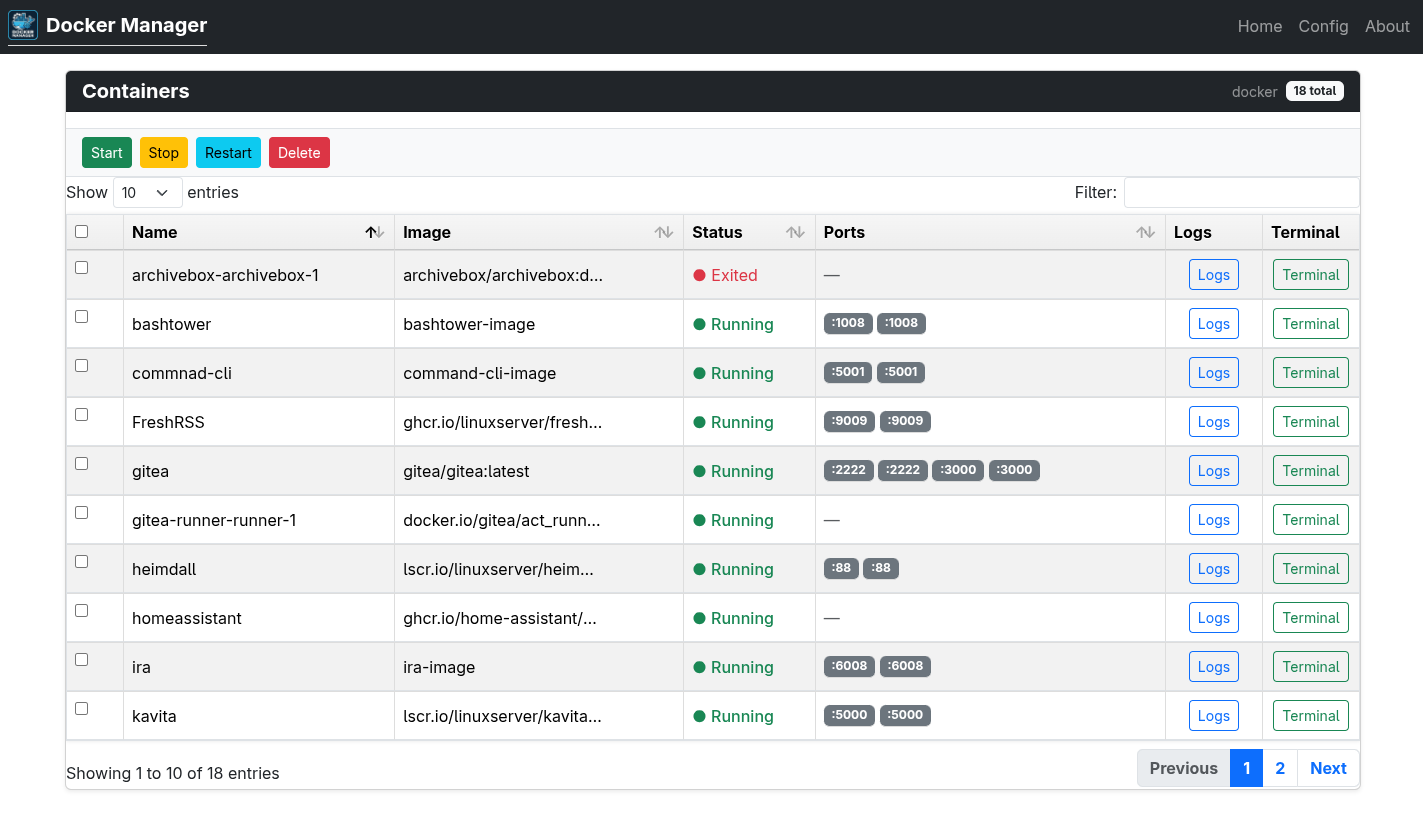
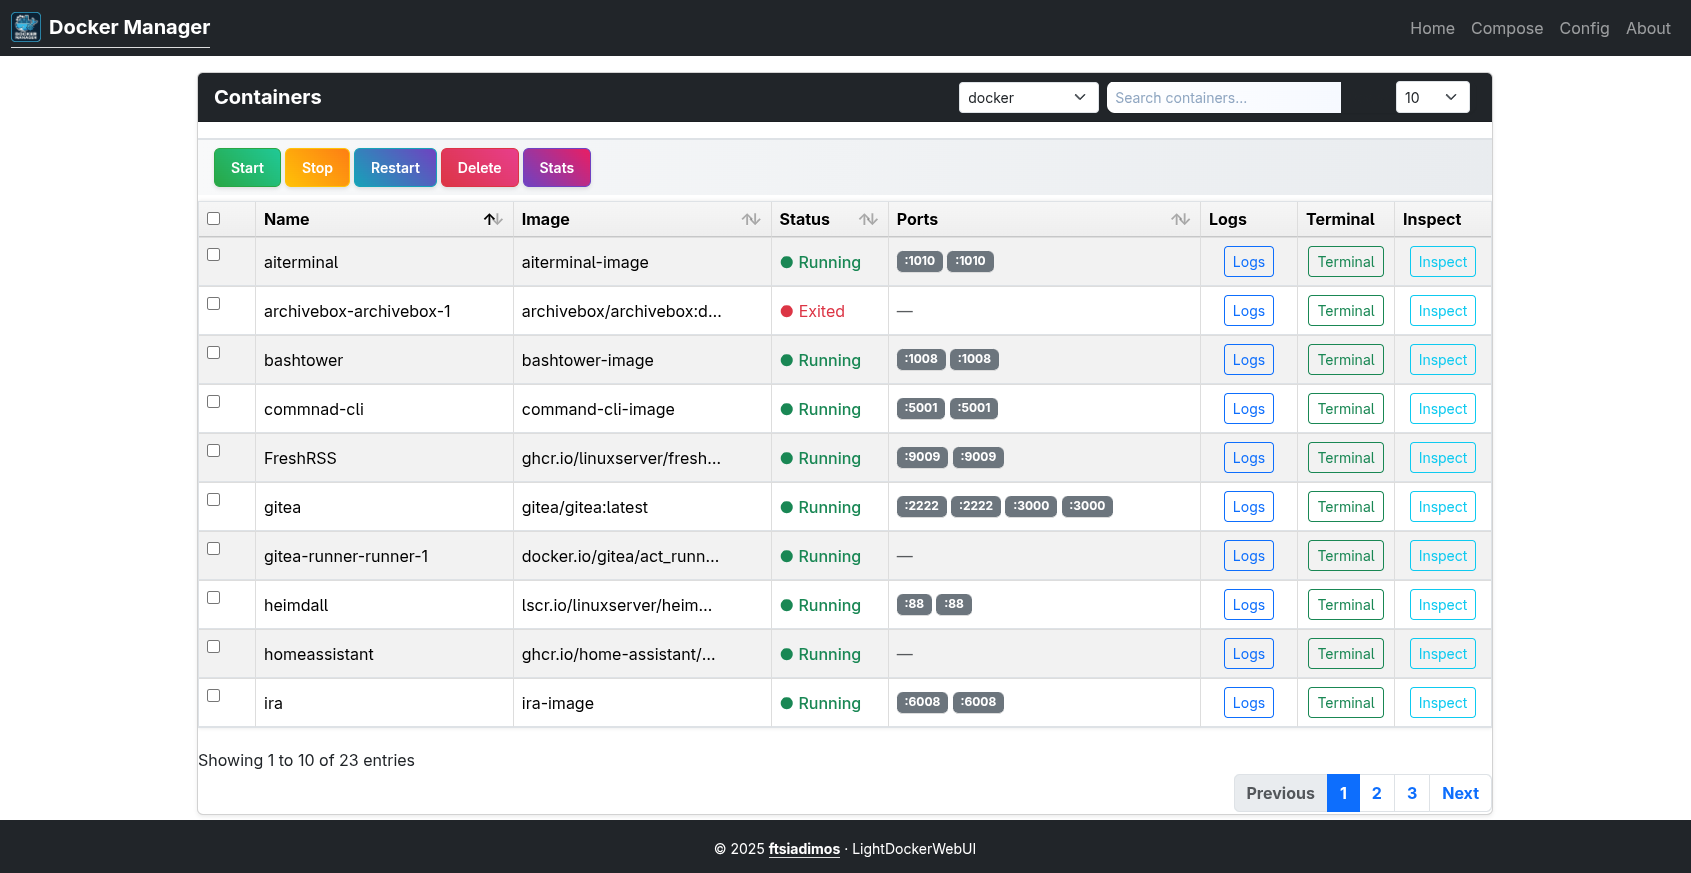
feat: simplify server dropdown to display only the friendly name for better clarity

diff --git a/app/templates/index.html b/app/templates/index.html
@@ -79,6 +79,22 @@
     .dataTables_length { display: none; } /* hide on tiny screens to save space */
     .card-header label { display: none; }
   }
+
+  /* Server select sizing to show full names in header */
+  .card-header .form-select {
+    min-width: 140px;
+    max-width: 520px;
+    white-space: nowrap;
+    box-sizing: border-box; /* ensure padding included in width calc */
+    padding-right: 40px; /* leave space for the native dropdown arrow */
+    background-position: right 10px center; /* keep arrow visually outside text */
+    background-repeat: no-repeat;
+  }
+
+  /* On very small screens we let the select take 100% width */
+  @media (max-width: 479px) {
+    .card-header .form-select { width: 100%; padding-right: 36px; }
+  }
   </style>
 
 <div class="card shadow-sm">

diff --git a/app/main.py b/app/main.py
@@ -87,11 +87,8 @@ def index():
     active_server = DockerServer.get_active()
     
     def get_server_label(s):
-        if s.host and s.port:
-            return f"{s.display_name} (tcp://{s.host}:{s.port})"
-        elif s.host:
-            return f"{s.display_name} ({s.host})"
-        return f"{s.display_name} (local)"
+        # Only show the friendly display name in the dropdown
+        return s.display_name
     
     select_form.server.choices = [(s.id, get_server_label(s)) for s in servers]
     
@@ -291,13 +288,9 @@ def addcon():
     servers = DockerServer.query.all()
     active_server = DockerServer.get_active()
     
-    # Populate server dropdown with display name and URL
+    # Populate server dropdown with only the display name
     def get_server_label(s):
-        if s.host and s.port:
-            return f"{s.display_name} (tcp://{s.host}:{s.port})"
-        elif s.host:
-            return f"{s.display_name} ({s.host})"
-        return f"{s.display_name} (local)"
+        return s.display_name
     
     select_form.server.choices = [(s.id, get_server_label(s)) for s in servers]
     
